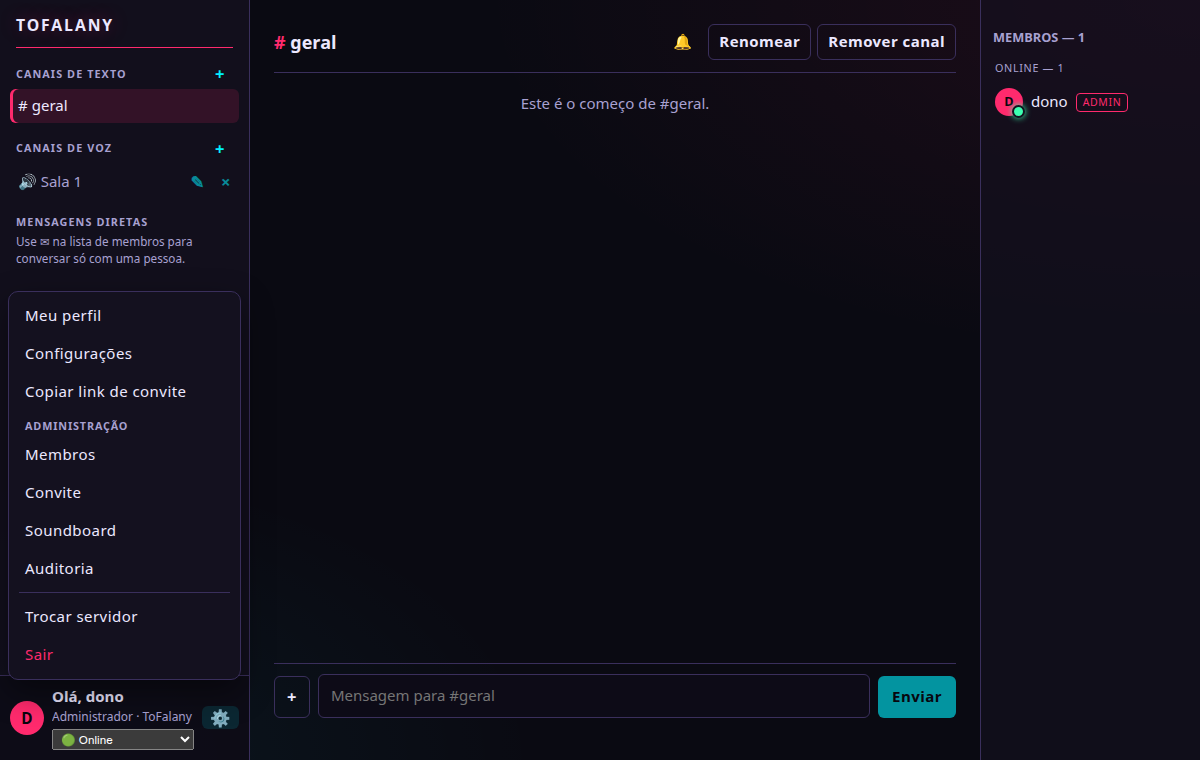
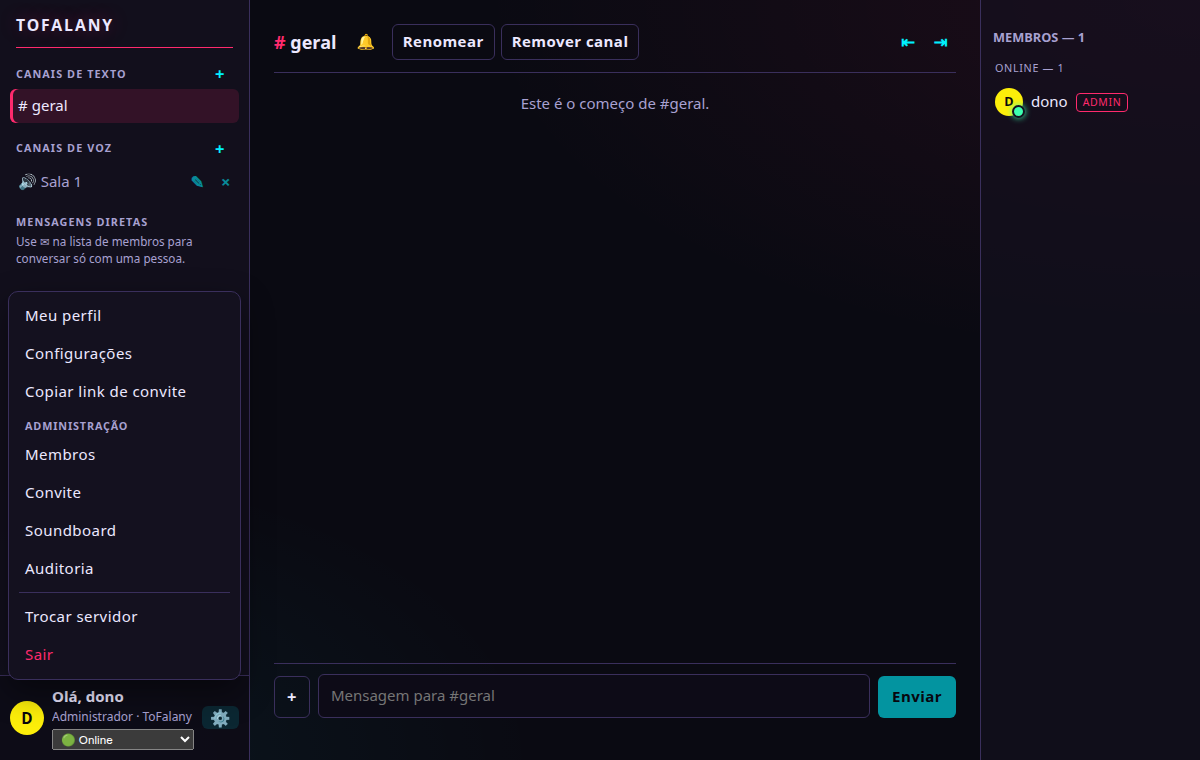
feat: esconder canais, membros e câmeras (backlog v2, item 10)
Botões no fim do cabeçalho da conversa e atalhos Ctrl+B (canais) e
Ctrl+M (membros); a conversa ocupa o espaço. A escolha fica guardada no
computador. E2E com print da tela só com a conversa.

diff --git a/client/src/renderer/telas/TelaPrincipal.tsx b/client/src/renderer/telas/TelaPrincipal.tsx
@@ -1,4 +1,4 @@
-import { useEffect, useEffectEvent, useMemo, useRef, useState } from 'react';
+import { useCallback, useEffect, useEffectEvent, useMemo, useRef, useState } from 'react';
 import {
   SOM_INTERVALO_MS,
   ATALHOS_PADRAO,
@@ -9,6 +9,7 @@ import {
   type StatusVisivel,
   type EscolhaStatus,
   type Tema,
+  type PartesOcultas,
   type Atalhos,
   type PreferenciasAudio,
   type PreferenciasPessoas,
@@ -170,6 +171,29 @@ export function TelaPrincipal({ servidorUrl, token, usuarioInicial, aoSair, aoTr
       .config.gravar({ tela: novo })
       .catch(() => undefined);
   }
+  // Backlog v2, item 10: esconder canais, membros e câmeras (Ctrl+B e Ctrl+M; guardado no computador).
+  const [ocultos, setOcultos] = useState<PartesOcultas>({ canais: false, membros: false, cameras: false });
+  const alternarParte = useCallback((parte: keyof PartesOcultas) => {
+    setOcultos((atual) => {
+      const novo = { ...atual, [parte]: !atual[parte] };
+      void ponte()
+        .config.gravar({ ocultos: novo })
+        .catch(() => undefined);
+      return novo;
+    });
+  }, []);
+  useEffect(() => {
+    const tecla = (e: globalThis.KeyboardEvent) => {
+      if (!e.ctrlKey || e.shiftKey || e.altKey) return;
+      const k = e.key.toLowerCase();
+      if (k === 'b') alternarParte('canais');
+      else if (k === 'm') alternarParte('membros');
+      else return;
+      e.preventDefault();
+    };
+    document.addEventListener('keydown', tecla);
+    return () => document.removeEventListener('keydown', tecla);
+  }, [alternarParte]);
   // Backlog v2, item 8: menu do usuário (fecha ao clicar fora ou com Esc).
   const [menuAberto, setMenuAberto] = useState(false);
   useEffect(() => {
@@ -257,6 +281,7 @@ export function TelaPrincipal({ servidorUrl, token, usuarioInicial, aoSair, aoTr
         telaRef.current = c.tela ?? TELA_PADRAO;
         setFecharParaBandeja(c.fecharParaBandeja !== false);
         if (c.tema) setTema(c.tema);
+        if (c.ocultos) setOcultos(c.ocultos);
         const escolhida = c.statusEscolhido?.[servidorUrl];
         if (escolhida && escolhaRef.current === 'auto') {
           escolhaRef.current = escolhida;
@@ -706,6 +731,42 @@ export function TelaPrincipal({ servidorUrl, token, usuarioInicial, aoSair, aoTr
   }, [servidorUrl, token, acoes, aoSessaoRevogada]);
 
   const usuario = eu ?? usuarioInicial;
+  const barraVisao = (
+    <span className="barra-visao" role="group" aria-label="Mostrar ou ocultar">
+      <button
+        type="button"
+        className="icone"
+        aria-pressed={!ocultos.canais}
+        aria-label="Mostrar canais"
+        title="Canais (Ctrl+B)"
+        onClick={() => alternarParte('canais')}
+      >
+        ⇤
+      </button>
+      {videos.length > 0 && (
+        <button
+          type="button"
+          className="icone"
+          aria-pressed={!ocultos.cameras}
+          aria-label="Mostrar câmeras"
+          title="Câmeras"
+          onClick={() => alternarParte('cameras')}
+        >
+          📷
+        </button>
+      )}
+      <button
+        type="button"
+        className="icone"
+        aria-pressed={!ocultos.membros}
+        aria-label="Mostrar membros"
+        title="Membros (Ctrl+M)"
+        onClick={() => alternarParte('membros')}
+      >
+        ⇥
+      </button>
+    </span>
+  );
   const minhaTela = minhaVoz !== null && transmissoes.some((t) => t.canalVozId === minhaVoz && t.usuarioId === usuario.id);
   const membrosPorStatus = useMemo(() => {
     const com = usuarios.map((u) => ({ u, status: (presencas[u.id] ?? 'offline') as StatusPessoa }));
@@ -950,7 +1011,7 @@ export function TelaPrincipal({ servidorUrl, token, usuarioInicial, aoSair, aoTr
           {conexao === 'conectando' ? 'Conectando…' : 'Sem conexão com o servidor. Reconectando…'}
         </div>
       )}
-      <div className="layout-colunas">
+      <div className={`layout-colunas${ocultos.canais ? ' sem-canais' : ''}${ocultos.membros ? ' sem-membros' : ''}`}>
         <aside className="coluna-esquerda">
           <BarraLateral
             nomeServidor={nomeServidor ?? servidorUrl}
@@ -1206,7 +1267,7 @@ export function TelaPrincipal({ servidorUrl, token, usuarioInicial, aoSair, aoTr
                 faixa={telasRemotas.find((v) => v.usuarioId === t.usuarioId)?.faixa}
               />
             ))}
-          <GradeVideos videos={videos} usuarios={usuarios} euId={usuario.id} />
+          {!ocultos.cameras && <GradeVideos videos={videos} usuarios={usuarios} euId={usuario.id} />}
           {vistaAtual === 'auditoria' ? (
             <TelaAuditoria api={api} pessoas={pessoasAuditoria} canais={canais} aoVoltar={voltar} />
           ) : vistaAtual === 'membros' ? (
@@ -1249,6 +1310,7 @@ export function TelaPrincipal({ servidorUrl, token, usuarioInicial, aoSair, aoTr
             <TelaPerfil usuario={usuario} servidorUrl={servidorUrl} api={api} aoAtualizar={acoes.atualizarUsuario} aoVoltar={voltar} />
           ) : dmAtiva !== null && dms.some((d) => d.id === dmAtiva) ? (
             <DmAberta
+              extras={barraVisao}
               key={`dm-${dmAtiva}`}
               dm={dms.find((d) => d.id === dmAtiva)!}
               outro={usuarios.find((u) => u.id === dms.find((d) => d.id === dmAtiva)!.outroId)}
@@ -1265,6 +1327,7 @@ export function TelaPrincipal({ servidorUrl, token, usuarioInicial, aoSair, aoTr
             />
           ) : (
             <CanalAberto
+              extras={barraVisao}
               key={canalAtivo ?? 'nenhum'}
               canal={canais.find((c) => c.id === canalAtivo)}
               ehAdmin={ehAdmin}

diff --git a/client/e2e/aparencia.spec.ts b/client/e2e/aparencia.spec.ts
@@ -82,3 +82,30 @@ test('backlog v2, item 9: trocar o tema em Configurações vale na hora e fica g
   await expect(de_novo.janela.getByRole('list', { name: 'Membros' })).toBeVisible();
   await expect.poll(() => de_novo.janela.evaluate(() => document.documentElement.dataset.tema)).toBe('breu');
 });
+
+test('backlog v2, item 10: esconder canais (Ctrl+B) e membros (botão); a escolha fica guardada', async () => {
+  const dono = await cadastrarDono();
+  const j = dono.janela;
+  const canais = j.getByRole('list', { name: 'Canais de texto' });
+  const membros = j.getByRole('list', { name: 'Membros' });
+  await expect(canais).toBeVisible();
+
+  await j.keyboard.press('Control+b');
+  await expect(canais).toBeHidden();
+  await j.getByRole('button', { name: 'Mostrar membros' }).click();
+  await expect(membros).toBeHidden();
+  // A conversa ocupa a largura toda e segue usável.
+  await j.getByLabel('Mensagem para #geral').fill('tela limpa');
+  await j.getByLabel('Mensagem para #geral').press('Enter');
+  await expect(j.getByRole('list', { name: 'Mensagens de #geral' })).toContainText('tela limpa');
+  await j.screenshot({ path: join(PRINTS, 'paineis-ocultos.png') });
+
+  await dono.app.close();
+  const de_novo = await abrir('dono');
+  await expect(de_novo.janela.getByLabel('Mensagem para #geral')).toBeVisible();
+  await expect(de_novo.janela.getByRole('list', { name: 'Canais de texto' })).toBeHidden();
+  await de_novo.janela.getByRole('button', { name: 'Mostrar canais' }).click();
+  await de_novo.janela.keyboard.press('Control+m');
+  await expect(de_novo.janela.getByRole('list', { name: 'Canais de texto' })).toBeVisible();
+  await expect(de_novo.janela.getByRole('list', { name: 'Membros' })).toBeVisible();
+});

diff --git a/client/src/renderer/componentes/DmAberta.tsx b/client/src/renderer/componentes/DmAberta.tsx
@@ -1,4 +1,4 @@
-import { useCallback } from 'react';
+import { useCallback, type ReactNode } from 'react';
 import type { DmDto, UsuarioDto } from '@tofalando/shared';
 import type { ClienteApi } from '../servicos/api';
 import { chaveDm } from '../estado/loja';
@@ -7,6 +7,8 @@ import { BotaoSilenciarConversa } from './BotaoSilenciarConversa';
 import { Conversa } from './MensagensCanal';
 
 interface Props {
+  /** Backlog v2, item 10: botões de mostrar/ocultar partes da tela, no fim do cabeçalho. */
+  extras?: ReactNode;
   dm: DmDto;
   /** A outra pessoa (undefined se a conta foi removida). */
   outro: UsuarioDto | undefined;
@@ -24,7 +26,21 @@ interface Props {
 }
 
 /** RF-12a: conversa direta. Só as duas pessoas veem; nem administrador apaga mensagem alheia aqui (RN-18). */
-export function DmAberta({ dm, outro, usuarios, servidorUrl, euId, api, aoEnviar, aoEditarMensagem, aoApagarMensagem, aoDigitar, silenciada = false, aoSilenciar }: Props) {
+export function DmAberta({
+  dm,
+  outro,
+  usuarios,
+  servidorUrl,
+  euId,
+  api,
+  aoEnviar,
+  aoEditarMensagem,
+  aoApagarMensagem,
+  aoDigitar,
+  silenciada = false,
+  aoSilenciar,
+  extras,
+}: Props) {
   const nome = outro?.nomeExibicao ?? 'conta removida';
   const carregarPagina = useCallback((antes?: number) => api.mensagensDm(dm.id, antes), [api, dm.id]);
   return (
@@ -36,6 +52,7 @@ export function DmAberta({ dm, outro, usuarios, servidorUrl, euId, api, aoEnviar
         </h2>
         <span className="suave">Conversa direta · só vocês dois veem</span>
         {aoSilenciar && <BotaoSilenciarConversa silenciada={silenciada} nome={nome} aoSilenciar={aoSilenciar} />}
+        {extras}
       </header>
       <Conversa
         conversa={{

diff --git a/client/src/renderer/componentes/CanalAberto.tsx b/client/src/renderer/componentes/CanalAberto.tsx
@@ -1,4 +1,4 @@
-import { useState } from 'react';
+import { useState, type ReactNode } from 'react';
 import type { CanalDto, UsuarioDto } from '@tofalando/shared';
 import type { ClienteApi } from '../servicos/api';
 import { FormNome } from './FormNome';
@@ -6,6 +6,8 @@ import { BotaoSilenciarConversa } from './BotaoSilenciarConversa';
 import { MensagensCanal } from './MensagensCanal';
 
 interface Props {
+  /** Backlog v2, item 10: botões de mostrar/ocultar partes da tela, no fim do cabeçalho. */
+  extras?: ReactNode;
   canal: CanalDto | undefined;
   ehAdmin: boolean;
   aoRenomear: (id: number, nome: string) => Promise<string | null>;
@@ -39,6 +41,7 @@ export function CanalAberto({
   aoDigitar,
   silenciada = false,
   aoSilenciar,
+  extras,
 }: Props) {
   const [modo, setModo] = useState<'ver' | 'renomear' | 'remover'>('ver');
   const [erro, setErro] = useState<string | null>(null);
@@ -108,6 +111,7 @@ export function CanalAberto({
             </button>
           </div>
         )}
+        {extras}
       </header>
       {erro && (
         <p className="erro" role="alert">

diff --git a/client/src/renderer/estilos/base.css b/client/src/renderer/estilos/base.css
@@ -418,3 +418,11 @@ button.icone.abrir-menu { flex: none; font-size: 1.1rem; }
 .menu-grupo { margin: 6px 10px 2px; color: var(--texto-suave); font-size: 0.72rem; font-weight: 700; letter-spacing: 0.08em; text-transform: uppercase; }
 button.icone.controle.sair-voz { color: var(--magenta); }
 @media (prefers-reduced-motion: reduce) { .menu-usuario { animation: none; } }
+
+/* Backlog v2, item 10: partes da tela escondidas. */
+.layout-colunas.sem-canais { grid-template-columns: minmax(0, 1fr) 220px; }
+.layout-colunas.sem-membros { grid-template-columns: 250px minmax(0, 1fr); }
+.layout-colunas.sem-canais.sem-membros { grid-template-columns: minmax(0, 1fr); }
+.layout-colunas.sem-canais > .coluna-esquerda, .layout-colunas.sem-membros > .coluna-direita { display: none; }
+.barra-visao { display: inline-flex; gap: 2px; margin-left: auto; }
+.barra-visao button.icone[aria-pressed='false'] { color: var(--texto-suave); opacity: 0.6; }

diff --git a/shared/src/protocolo.ts b/shared/src/protocolo.ts
@@ -148,6 +148,8 @@ export interface ConfiguracoesLocais {
   tela: PreferenciasTela;
   /** Backlog v2, 1e: fechar a janela deixa o app na bandeja (padrão: sim). */
   fecharParaBandeja?: boolean;
+  /** Backlog v2, item 10: partes da tela escondidas. */
+  ocultos?: PartesOcultas;
   /** Backlog v2, item 9: tema da interface (padrão: neon). */
   tema?: Tema;
   /** Backlog v2, item 2: status escolhido em cada servidor (chave = URL do servidor). */
@@ -199,6 +201,13 @@ export const CONFIGURACOES_PADRAO: ConfiguracoesLocais = {
   notificacoes: NOTIFICACOES_PADRAO,
   tela: TELA_PADRAO,
 };
+
+/** Backlog v2, item 10: canais (coluna da esquerda), membros (da direita) e câmeras escondidos. */
+export interface PartesOcultas {
+  canais: boolean;
+  membros: boolean;
+  cameras: boolean;
+}
 
 /** Backlog v2, item 9: temas (o nome na tela fica no app). */
 export type Tema = 'neon' | 'breu' | 'aurora';

diff --git a/client/src/main/configuracoes.ts b/client/src/main/configuracoes.ts
@@ -30,6 +30,10 @@ function mesclar(base: ConfiguracoesLocais, bruto: unknown): ConfiguracoesLocais
   if ('notificacoes' in obj) resultado.notificacoes = mesclarNotificacoes(base.notificacoes, obj.notificacoes);
   if ('tela' in obj) resultado.tela = mesclarTela(base.tela, obj.tela);
   if (typeof obj.fecharParaBandeja === 'boolean') resultado.fecharParaBandeja = obj.fecharParaBandeja;
+  if (obj.ocultos && typeof obj.ocultos === 'object') {
+    const o = obj.ocultos as Record<string, unknown>;
+    resultado.ocultos = { canais: o.canais === true, membros: o.membros === true, cameras: o.cameras === true };
+  }
   if (typeof obj.tema === 'string' && (TEMAS as string[]).includes(obj.tema)) resultado.tema = obj.tema as Tema;
   if (obj.statusEscolhido && typeof obj.statusEscolhido === 'object') {
     const validos: Record<string, EscolhaStatus> = {};
